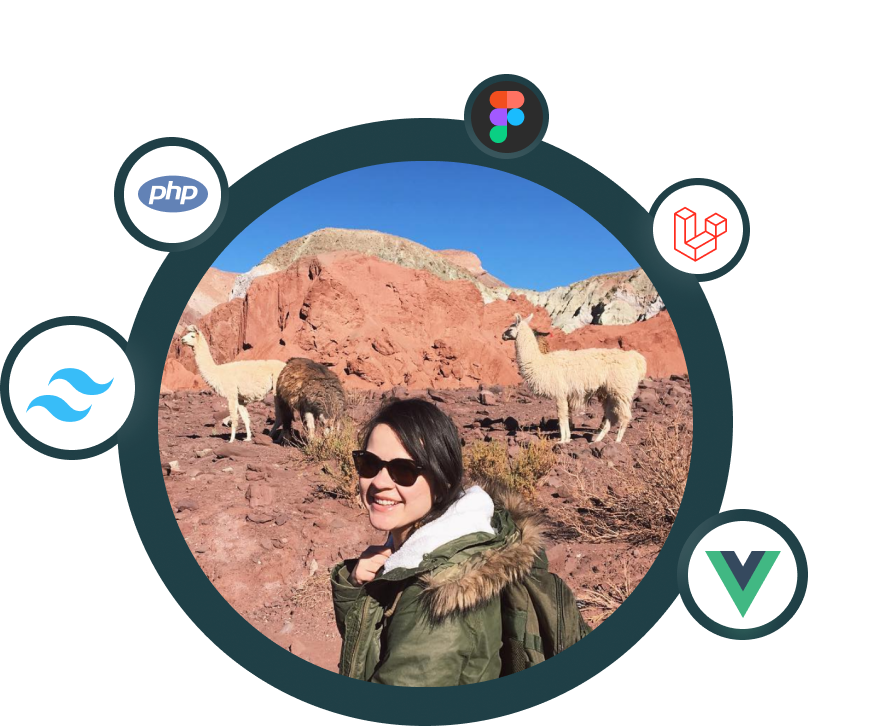
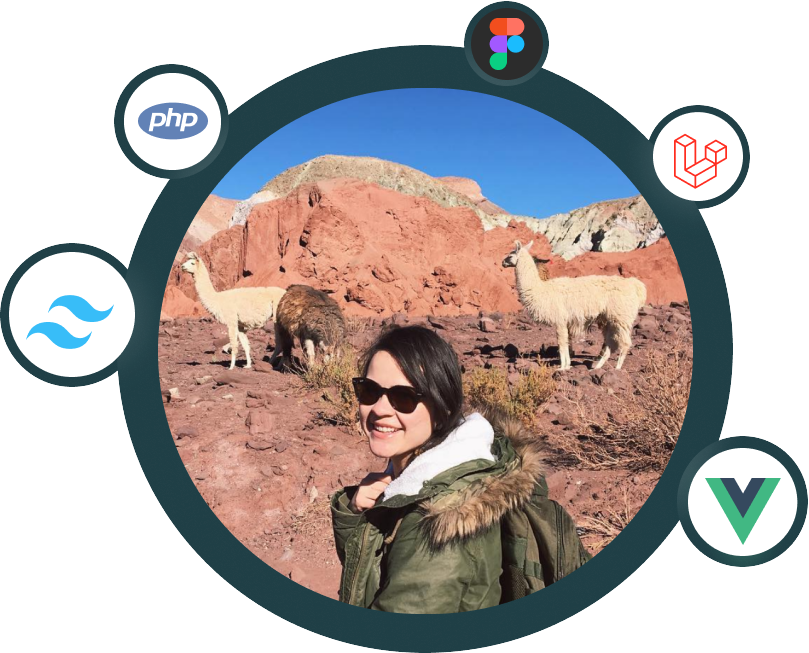
landing section

diff --git a/index.html b/index.html
@@ -60,14 +60,25 @@
         </nav>
     </header>
 
-    <section class="landing"></section>
+    <section class="flex flex-col items-center justify-center text-center bg-teal-900 max-h-screen" id="landing-section">
+        <img src="./assets/images/landing.png" alt="Photo of Juliana" class="max-h-fit object-cover">
+        <div class="mt-5">
+            <h1 class="text-3xl sm:text-4xl md:text-5xl lg:text-6xl xl:text-7xl font-bold">Hello, I am Juliana</h1>
+            <h3 class="text-2xl sm:text-3xl md:text-4xl font-medium mt-3">Frontend developer, with UX knowledge</h3>
+        </div>
+    </section>
+    
+    
+    
+
+    <!-- <section class="landing"></section>
         <img src="./assets/images/landing.png" alt="">
         <div class="introduction">
             <h2>Hello, I am</h2>
             <h1>Juliana</h1>
         </div>
         <h4>Junior Front-End developer, with UX knowledge</h4>
-    </section>
+    </section> -->
 
 <!-- 
     <section class="landing">

diff --git a/assets/style.css b/assets/style.css
@@ -42,13 +42,10 @@ body{
 
 /* TYPOGRAPHY */
 
-h1{
+h1 {
     font-family: 'Space Grotesk', serif;
-    font-weight: 700;
-    font-size: clamp(48px, 20vw, 100px);
-    line-height: clamp(48px, 20vw, 100px);
-    margin-top: -10px;
-
+    font-size: clamp(48px, 8vw, 100px); 
+    color: #00D1FF;
 }
 
 h2{
@@ -57,11 +54,8 @@ h2{
     font-weight: 700;
 }
 
-h3{
+h3 {
     font-family: 'Space Grotesk', serif;
-    font-size: clamp(24px, 5vw, 40px);
-    font-weight: 700;
-    font-size: 40px;
     color: #00D1FF;
 }
 
@@ -157,10 +151,9 @@ header{
     transform: scale(1.1);
 }  */
 
-
 /* LANDING */
 
-.landing{
+/* .landing{
     display: flex;
     align-items: center;
     justify-content: center;
@@ -178,6 +171,10 @@ header{
 
 .introduction{
     text-align: left;
+} */
+
+section {
+    min-height: calc(100vh - 120px);
 }
 
 /* ARROW BUTTONS */
